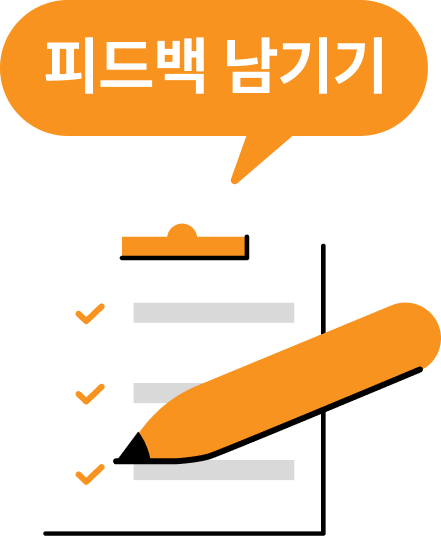
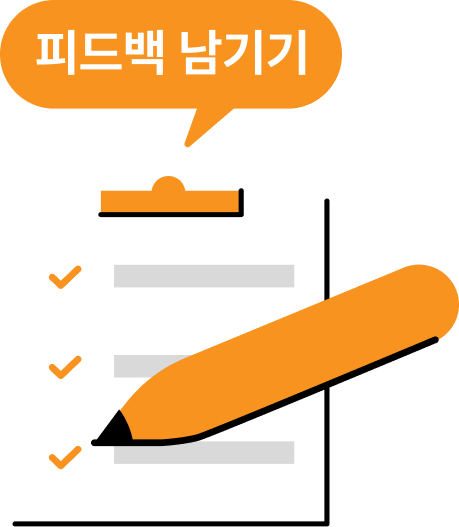
[feat] 구글폼 Animation 기능 추가 및 디자인 수정

diff --git a/src/components/chatBoard/ChatFrontTest.jsx b/src/components/chatBoard/ChatFrontTest.jsx
@@ -1,75 +1,75 @@
-import React, { useEffect, useState } from 'react';
-import io from "socket.io-client"
-import styled from 'styled-components';
+// import React, { useEffect, useState } from 'react';
+// import io from "socket.io-client"
+// import styled from 'styled-components';
 
-const socket = io.connect("http://localhost:3001");
-socket.emit("init", "접속했습니다")
+// const socket = io.connect("http://localhost:3001");
+// socket.emit("init", "접속했습니다")
 
-const ChatFrontTest = () => {
+// const ChatFrontTest = () => {
 
-    const [chatList, setChatList] = useState([]);
-    const [chat, setChat] = useState({
-        nickname: "",
-        message: "",
-    })
+//     const [chatList, setChatList] = useState([]);
+//     const [chat, setChat] = useState({
+//         nickname: "",
+//         message: "",
+//     })
 
-    useEffect(() => {
-        socket.on("receive message", (message) => {
-            setChatList(chatList => chatList.concat(message))
-        })
-    }, [])
+//     useEffect(() => {
+//         socket.on("receive message", (message) => {
+//             setChatList(chatList => chatList.concat(message))
+//         })
+//     }, [])
 
-    useEffect(() => {
-        return () => {
-            socket.close()
-        }
-    }, [])
+//     useEffect(() => {
+//         return () => {
+//             socket.close()
+//         }
+//     }, [])
 
-    return (
-        <ChatDiv>
-            <ChatList chatList={chatList} />
-            <ChatInput chat={chat} setChat={setChat} />
-        </ChatDiv>
-    );
-};
+//     return (
+//         <ChatDiv>
+//             <ChatList chatList={chatList} />
+//             <ChatInput chat={chat} setChat={setChat} />
+//         </ChatDiv>
+//     );
+// };
 
-export default ChatFrontTest;
+// export default ChatFrontTest;
 
-const ChatDiv = styled.div`
-    width: 100%;
-    height: 100%;
-`
+// const ChatDiv = styled.div`
+//     width: 100%;
+//     height: 100%;
+// `
 
-function ChatList({ chatList }) {
-    return (
-        <div style={{width: "100%", height:"500px"}}>
-            <section className='chat-box'>
-                {chatList && chatList.map((chat, index) => (
-                    <p key={index}>{chat.nickname} : {chat.message}</p>
-                ))}
-            </section>
-        </div>
-    )
-}
+// function ChatList({ chatList }) {
+//     return (
+//         <div style={{width: "100%", height:"500px"}}>
+//             <section className='chat-box'>
+//                 {chatList && chatList.map((chat, index) => (
+//                     <p key={index}>{chat.nickname} : {chat.message}</p>
+//                 ))}
+//             </section>
+//         </div>
+//     )
+// }
 
-function ChatInput({ chat, setChat }) {
-    const changeInput = (e) => {
-        const { name, value } = e.target;
-        setChat(chat => {
-            return { ...chat, [name]: value }
-        })
-    }
-    const postChat = () => {
-        socket.emit("send message", {
-            nickname: chat.nickname,
-            message: chat.message
-        })
-    }
-    return (
-        <div>
-            <input name="nickname" value={chat.nickname} onChange={changeInput} />
-            <input name="message" value={chat.message} onChange={changeInput} />
-            <button onClick={postChat}>전송</button>
-        </div>
-    )
-}
+// function ChatInput({ chat, setChat }) {
+//     const changeInput = (e) => {
+//         const { name, value } = e.target;
+//         setChat(chat => {
+//             return { ...chat, [name]: value }
+//         })
+//     }
+//     const postChat = () => {
+//         socket.emit("send message", {
+//             nickname: chat.nickname,
+//             message: chat.message
+//         })
+//     }
+//     return (
+//         <div>
+//             <input name="nickname" value={chat.nickname} onChange={changeInput} />
+//             <input name="message" value={chat.message} onChange={changeInput} />
+//             <button onClick={postChat}>전송</button>
+//         </div>
+//     )
+// }

diff --git a/src/App.js b/src/App.js
@@ -1,8 +1,7 @@
 import React, { Fragment, useEffect } from "react";
 import Router from "./shared/Router";
 import './App.css'
-import styled from "styled-components";
-// import background from "./assets/background.png"
+import styled, {keyframes} from "styled-components";
 import background2 from "./assets/background2.png"
 import feedback from "./assets/feedback.png"
 
@@ -19,25 +18,25 @@ function App() {
   }, []);
 
   return (
-    <Container>
-      {/* <TitleWrap>
-        <SiteContent>대학교 졸업생 동문 사이트</SiteContent>
-        <SiteTitle>Homecoming Day</SiteTitle>
-      </TitleWrap> */}
+    <StContainer>
       <div className='wrap' >
         <Router />
       </div>
-      <StGoogleFeedback>
-        <StFeedbackImg/>
+      <StGoogleFeedback flag
+        href="https://forms.gle/WXw3wCGEaUaXw2Q6A"
+        target="_blank"
+        rel="noreferrer"
+      >
+        <StFeedbackImg />
       </StGoogleFeedback>
-    </Container>
+    </StContainer>
   )
 
 }
 
 export default App;
 
-const Container = styled.div`
+const StContainer = styled.div`
   position: relative;
   display: flex;
   flex-direction: column;
@@ -76,38 +75,32 @@ const Container = styled.div`
   }
 `;
 
-const TitleWrap = styled.div`
-  position: fixed;
-  left: 10%;
-  width: 305px;
-  height: 37px;
-  left: 61px;
-  /* top: 100px; */
-  top: 70px;
+const StGoogleAnimation = keyframes`
+0% {  
+    transform: translateY(-15PX); 
+}
+50%{
+  transform: translateY(0px); 
+}
+  100% {  
+    transform: translateY(-15px); 
+}
+`;
 
-`
-const SiteContent = styled.div`
-  color: #f7931e;
-  font-size: 20px;
-  font-weight: 700;
-`
-const SiteTitle = styled.div`
-  font-size: 30px;
-  font-weight: 700;
-`
-const StGoogleFeedback = styled.div`
+const StGoogleFeedback = styled.a`
   position: fixed;
   bottom: 10%;
-  right: 9%;
+  right: 8%;
   cursor: pointer;
+  animation: ${StGoogleAnimation} 2s linear infinite;
   @media screen and (max-width: 1400px) {
     display: none;
   }
 `
 
 const StFeedbackImg = styled.div`
-  width: 140px;
-  height: 140px;
+  width: 130px;
+  height: 150px;
   background-image: url(${feedback});
   background-size: 100% 100%;
   background-position: center;

diff --git a/src/components/myPageBoard/MyPageUser.jsx b/src/components/myPageBoard/MyPageUser.jsx
@@ -13,14 +13,15 @@ const MyPageUser = () => {
 
     const navigate = useNavigate();
     const dispatch = useDispatch();
-    const mypages = useSelector((state) => state.mypages.mypages);
-    console.log(mypages);
+    // const mypages = useSelector((state) => state.mypages.mypages);
+    const {mypages, totalCount} = useSelector((state) => state.mypages);
+    // console.log(mypages, totalCount);
 
     useEffect(() => {
         dispatch(__getMyPage())
     }, [dispatch])
 
-    //이미지 업로드
+    //프로필 이미지 PATCH 기능
 
     const [imageUrl, setImageUrl] = useState("");
     const imgRef = useRef();
@@ -52,6 +53,7 @@ const MyPageUser = () => {
         e.target.src = profileorange
     }
 
+    // 마이페이지 로그아웃 모달
     const [modalOpen, setModalOpen] = useState(false);
     const showModal = (e) => {
         e.preventDefault();
@@ -78,6 +80,12 @@ const MyPageUser = () => {
                         <UserWrap>
                             <UserName>{mypages.username}</UserName>
                             <UserAdmission>| {mypages.admission}</UserAdmission>
+                            <UserLank>
+                                {totalCount < 5 ? <img src={camera}/> : 
+                                totalCount < 10 ? "고수" : 
+                                totalCount < 15 ? "왕" : <img src={camera}/>
+                                }
+                            </UserLank>
                         </UserWrap>
                         <UserWrap>
                             <UserUniversity>{mypages.schoolName}</UserUniversity>
@@ -199,6 +207,10 @@ const UserName = styled.div`
     font-size: 20px;
 `
 const UserAdmission = styled.div`
+    color: white;
+`
+
+const UserLank = styled.div`
     color: white;
 `
 const UserEmail = styled.div`

diff --git a/src/components/myPageBoard/MyPageHome.jsx b/src/components/myPageBoard/MyPageHome.jsx
@@ -10,6 +10,7 @@ import Homeimg from '../../assets/Home.png';
 import Searchimg from '../../assets/Search.png';
 import Chatimg from '../../assets/Chat.png';
 import MyColorimg from '../../assets/MyColor.png';
+import refresh from "../../assets/refresh.png"
 
 const MyPageHome = () => {
   const navigate = useNavigate();
@@ -48,6 +49,10 @@ const MyPageHome = () => {
     }
   }, [myarticles]);
 
+  const refreshPage = () => {
+    window.location.reload();
+  }
+
   return (
     <HomeContainer>
       <MyPageTop>
@@ -58,6 +63,7 @@ const MyPageHome = () => {
           <TitleWrap>
             <MyPostTitle>내가 쓴 게시글</MyPostTitle>
             <PostCount>{myarticles && myarticles.length}</PostCount>
+            <StRefresh onClick={refreshPage}/>
             {/* <PostCount>{totalCount}</PostCount> */}
           </TitleWrap>
           <ArticleWrap>
@@ -212,6 +218,15 @@ const MyPostTitle = styled.div`
 const PostCount = styled.div`
   color: #f7931e;
 `;
+
+const StRefresh = styled.div`
+  width: 20px;
+  height: 20px;
+  background-image: url(${refresh});
+  background-position: center;
+  background-size: 100% 100%;
+  cursor: pointer;
+`
 const SecondWrap = styled.div`
   width: 100%;
   position: sticky;

diff --git a/src/components/chatBoard/ChatBackTest.jsx b/src/components/chatBoard/ChatBackTest.jsx
@@ -1,21 +1,21 @@
-const server = require('http').createServer();
-const io = require('socket.io')(server, {
-  cors: {
-    origin: 'http://localhost:3000',
-    method: ['GET', 'POST'],
-  },
-})
+// const server = require('http').createServer();
+// const io = require('socket.io')(server, {
+//   cors: {
+//     origin: 'http://localhost:3000',
+//     method: ['GET', 'POST'],
+//   },
+// })
 
-io.on("connection", (socket) => {
-  socket.on("init", (payload) => {
-    console.log(payload)
-  })
-  socket.on("send message", (item) => {
-    console.log(item.nickname + " : " + item.message);
-    io.emit("receive message", { nickname: item.nickname, message: item.message });
-  });
-})
+// io.on("connection", (socket) => {
+//   socket.on("init", (payload) => {
+//     console.log(payload)
+//   })
+//   socket.on("send message", (item) => {
+//     console.log(item.nickname + " : " + item.message);
+//     io.emit("receive message", { nickname: item.nickname, message: item.message });
+//   });
+// })
 
-server.listen(3001, () => {
-  console.log('Listening on port 3001')
-})
+// server.listen(3001, () => {
+//   console.log('Listening on port 3001')
+// })

diff --git a/src/components/loginSigunUpBoard/Login.jsx b/src/components/loginSigunUpBoard/Login.jsx
@@ -176,7 +176,7 @@ const Login = () => {
           </StLoginWrap>
         </StLoginWraps>
         <StPrivacy>
-          첫 로그인시<StPrivacyText onClick={showPrivacyModal}> 이용약관</StPrivacyText> 및 <StPrivacyText onClick={showPrivacyModal}>개인정보처리방침</StPrivacyText> 동의로 간주됩니다
+          회원가입시<StPrivacyText onClick={showPrivacyModal}> 이용약관</StPrivacyText> 및 <StPrivacyText onClick={showPrivacyModal}>개인정보처리방침</StPrivacyText> 동의로 간주됩니다
         </StPrivacy>
       </StLoginContainer>
     </>
@@ -280,12 +280,13 @@ const ButtonTitle = styled.div`
 const StPrivacy = styled.div`
   position: fixed;
   bottom: 0;
-  margin-bottom: 10px;
+  margin-bottom: 15px;
   display: flex;
   flex-direction: row;
   gap: 5px;
   color: #b3b3b3;
   font-weight: 400;
+  justify-content: center;
 `
 
 const StPrivacyText = styled.div`
